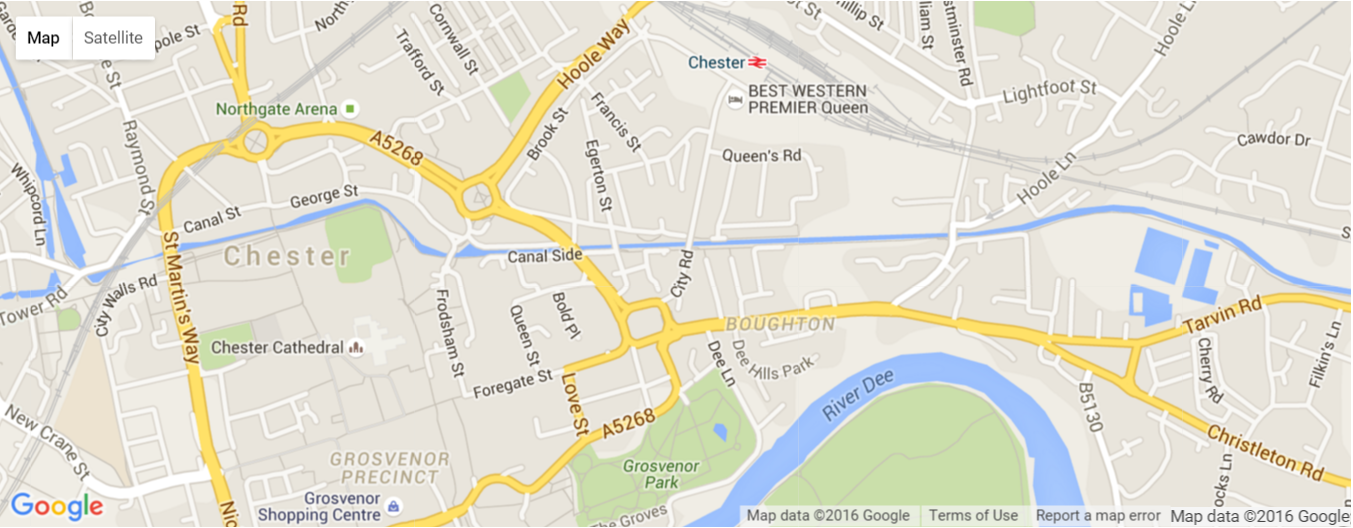
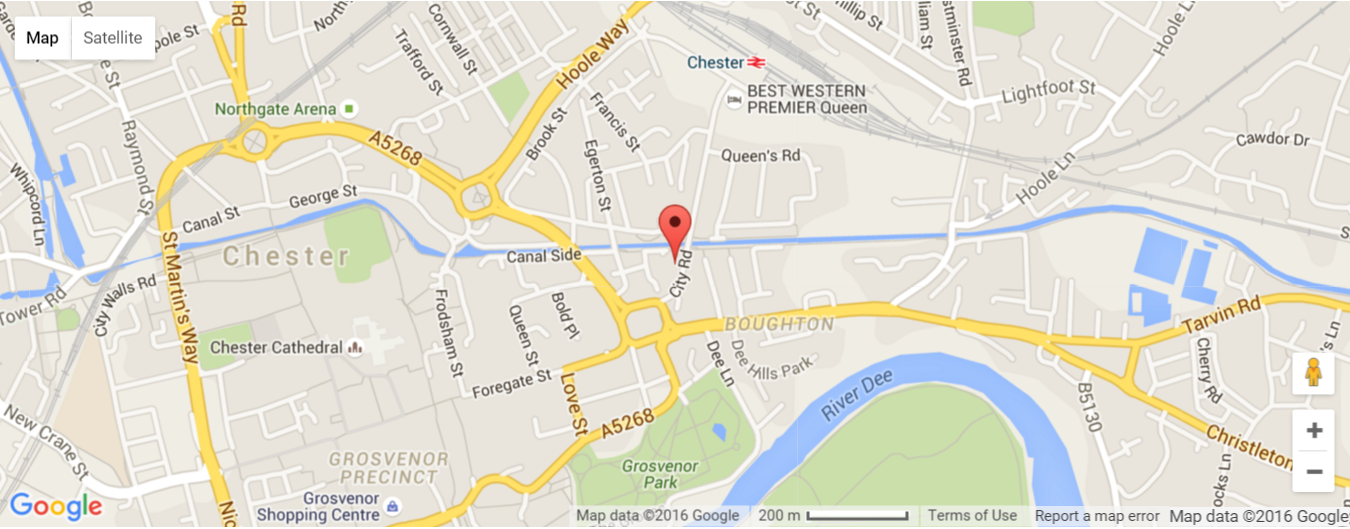
Fixed: JS map now displaying correctly  |  Updated: static map .png

diff --git a/CO5027/Styles/MainStyle.min.css b/CO5027/Styles/MainStyle.min.css
@@ -1,1 +1,1 @@
-@import url(https://fonts.googleapis.com/css?family=Roboto);*{margin:0;padding:0;}body{font-family:'Roboto',Helvetica,Airel,sans-serif;}a{color:#08f;text-decoration:none;}a:hover{text-decoration:underline;}a.current{background-color:#333;}p{margin-bottom:10px;padding-left:10px;}h1{margin-top:20px;margin-bottom:5px;padding-left:15px;}h2{margin-top:12px;margin-bottom:10px;padding-left:15px;}h3{margin-top:8px;margin-bottom:10px;padding-left:5px;}img{max-width:100%;height:auto;}textarea,input{font-family:'Roboto',Helvetica,Airel,sans-serif;transition:background-color linear .15s;padding:10px;display:block;width:100%;font-size:1.05em;}textarea:focus,input:focus{background-color:#fafafa;}textarea{height:250px;}header{background-color:#222;color:#fff;font-family:'Roboto',Helvetica,Airel,sans-serif;}header a{color:#fff;text-decoration:none;}header a img{vertical-align:middle;padding:10px;}header a h1{vertical-align:middle;color:#fff;display:inline;padding-top:15px;padding-left:0;}header nav.main ul{display:inline-block;width:100%;}header nav.main ul li{list-style:none;}header nav.main ul li a{display:block;padding:10px 15px;}header nav.main ul li a:hover{text-decoration:none;background-color:#333;}.photos{display:-webkit-box;display:-moz-box;display:-ms-flexbox;display:flex;justify-content:center;flex-direction:row;flex-wrap:wrap;max-width:100%;}.photos .item{margin:5px;flex-grow:1;flex-basis:300px;}.photos .item figure{display:-webkit-box;display:-moz-box;display:-ms-flexbox;display:flex;display:block;position:relative;overflow:hidden;}.photos .item figure img{display:block;width:100%;height:auto;}.photos .item figure figcaption{transition:opacity ease-out .12s;position:absolute;width:100%;background-color:rgba(0,0,0,.75);background:-webkit-linear-gradient(rgba(0,0,0,0),rgba(0,0,0,.75));background:-o-linear-gradient(rgba(0,0,0,0),rgba(0,0,0,.75));background:-moz-linear-gradient(rgba(0,0,0,0),rgba(0,0,0,.75));background:linear-gradient(rgba(0,0,0,0),rgba(0,0,0,.75));color:#fff;padding:10px 20px;opacity:0;bottom:0;}.photos .item figure figcaption span{padding-right:35px;float:right;}.photos .item figure:hover figcaption{opacity:1;left:0;}section>div{margin:0 20px 30px 20px;}.page{margin-left:auto;margin-right:auto;max-width:900px;padding:0 20px 30px 20px;}.page>div{margin:0;}.email div{margin:15px 5px;}.email div span{color:#f00;}.columns{width:100%;display:flex;flex-direction:column;justify-content:space-between;flex-wrap:wrap;}.columns .map{flex-grow:1;}.columns .map img,.columns .map div{display:block;max-width:100%;}.columns .map #map{height:350px;width:900px;}.contact-details p span{margin-top:5px;padding:15px;display:block;background:#f5f5f5;font-size:1.05em;line-height:1.4;border-left:5px solid #626262;}footer{background-color:#222;color:#fff;font-family:'Roboto',Helvetica,Airel,sans-serif;width:100%;}footer a{color:#fff;text-decoration:none;}footer .copyright{text-align:center;padding:15px;}footer nav.validation{text-align:center;padding:15px;background-color:#2f2f2f;}footer nav.validation h3{margin-top:5px;margin-bottom:5px;font-size:90%;}footer nav.validation li{list-style:none;display:inline-block;}footer nav.validation li a{display:block;padding:8px 14px;border-radius:3px;}footer nav.validation li a:hover{text-decoration:none;background-color:#3c3c3c;}@media(max-width:320px){header nav.main ul li:first-of-type a{margin-top:10px;}header nav.main ul li:last-of-type a{margin-bottom:10px;}}@media(min-width:320px){header nav.main ul{text-align:center;}header nav.main ul li{display:inline-block;}header nav.main ul li a{display:block;padding:12px 20px;}textarea,input{min-width:300px;}}@media(min-width:500px){footer{display:-webkit-box;display:-moz-box;display:-ms-flexbox;display:flex;justify-content:space-between;}footer .copyright{padding:12px 20px;}footer nav.validation{padding:5px 20px;float:right;}footer nav.validation h3,footer nav.validation ul{display:inline-block;}textarea,input{min-width:400px;}}@media(min-width:710px){header nav.main{display:inline-block;}header nav.main ul{text-align:right;}}@media(min-width:860px){.columns.two{flex-direction:row;flex-grow:1;flex-basis:600px;align-items:stretch;}}
+@import url(https://fonts.googleapis.com/css?family=Roboto);*{margin:0;padding:0;}body{font-family:'Roboto',Helvetica,Arial,sans-serif;}a{color:#08f;text-decoration:none;}a:hover{text-decoration:underline;}a.current{background-color:#333;}p{margin-bottom:10px;padding-left:10px;}h1{margin-top:20px;margin-bottom:5px;padding-left:15px;}h2{margin-top:12px;margin-bottom:10px;padding-left:15px;}h3{margin-top:8px;margin-bottom:10px;padding-left:5px;}img{max-width:100%;height:auto;}textarea,input{font-family:'Roboto',Helvetica,Arial,sans-serif;transition:background-color linear .15s;padding:10px;display:block;width:100%;font-size:1.05em;}textarea:focus,input:focus{background-color:#fafafa;}textarea{height:250px;}header{background-color:#222;color:#fff;font-family:'Roboto',Helvetica,Arial,sans-serif;}header a{color:#fff;text-decoration:none;}header a img{vertical-align:middle;padding:10px;}header a h1{vertical-align:middle;color:#fff;display:inline;padding-top:15px;padding-left:0;}header nav.main ul{display:inline-block;width:100%;}header nav.main ul li{list-style:none;}header nav.main ul li a{display:block;padding:10px 15px;}header nav.main ul li a:hover{text-decoration:none;background-color:#333;}.photos{display:-webkit-box;display:-moz-box;display:-ms-flexbox;display:flex;justify-content:center;flex-direction:row;flex-wrap:wrap;max-width:100%;}.photos .item{margin:5px;flex-grow:1;flex-basis:300px;}.photos .item figure{display:-webkit-box;display:-moz-box;display:-ms-flexbox;display:flex;display:block;position:relative;overflow:hidden;}.photos .item figure img{display:block;width:100%;height:auto;}.photos .item figure figcaption{transition:opacity ease-out .12s;position:absolute;width:100%;background-color:rgba(0,0,0,.75);background:-webkit-linear-gradient(rgba(0,0,0,0),rgba(0,0,0,.75));background:-o-linear-gradient(rgba(0,0,0,0),rgba(0,0,0,.75));background:-moz-linear-gradient(rgba(0,0,0,0),rgba(0,0,0,.75));background:linear-gradient(rgba(0,0,0,0),rgba(0,0,0,.75));color:#fff;padding:10px 20px;opacity:0;bottom:0;}.photos .item figure figcaption span{padding-right:35px;float:right;}.photos .item figure:hover figcaption{opacity:1;left:0;}section>div{margin:0 20px 30px 20px;}.page{margin-left:auto;margin-right:auto;max-width:900px;padding:0 20px 30px 20px;}.page>div{margin:0;}.email div{margin:15px 5px;}.email div span{color:#f00;}.columns{width:100%;display:flex;flex-direction:column;justify-content:space-between;flex-wrap:wrap;}.columns .map{flex-grow:1;}.columns .map img,.columns .map div{display:block;}.columns .map #map{height:350px;width:900px;}.contact-details p span{margin-top:5px;padding:15px;display:block;background:#f5f5f5;font-size:1.05em;line-height:1.4;border-left:5px solid #626262;}footer{background-color:#222;color:#fff;font-family:'Roboto',Helvetica,Arial,sans-serif;width:100%;}footer a{color:#fff;text-decoration:none;}footer .copyright{text-align:center;padding:15px;}footer nav.validation{text-align:center;padding:15px;background-color:#2f2f2f;}footer nav.validation h3{margin-top:5px;margin-bottom:5px;font-size:90%;}footer nav.validation li{list-style:none;display:inline-block;}footer nav.validation li a{display:block;padding:8px 14px;border-radius:3px;}footer nav.validation li a:hover{text-decoration:none;background-color:#3c3c3c;}@media(max-width:320px){header nav.main ul li:first-of-type a{margin-top:10px;}header nav.main ul li:last-of-type a{margin-bottom:10px;}}@media(min-width:320px){header nav.main ul{text-align:center;}header nav.main ul li{display:inline-block;}header nav.main ul li a{display:block;padding:12px 20px;}textarea,input{min-width:300px;}}@media(min-width:500px){footer{display:-webkit-box;display:-moz-box;display:-ms-flexbox;display:flex;justify-content:space-between;}footer .copyright{padding:12px 20px;}footer nav.validation{padding:5px 20px;float:right;}footer nav.validation h3,footer nav.validation ul{display:inline-block;}textarea,input{min-width:400px;}}@media(min-width:710px){header nav.main{display:inline-block;}header nav.main ul{text-align:right;}}@media(min-width:860px){.columns.two{flex-direction:row;flex-grow:1;flex-basis:600px;align-items:stretch;}}

diff --git a/CO5027/Styles/MainStyle.css b/CO5027/Styles/MainStyle.css
@@ -4,7 +4,7 @@
   padding: 0;
 }
 body {
-  font-family: 'Roboto', Helvetica, Airel, sans-serif;
+  font-family: 'Roboto', Helvetica, Arial, sans-serif;
 }
 a {
   color: #08f;
@@ -41,7 +41,7 @@ img {
 }
 textarea,
 input {
-  font-family: 'Roboto', Helvetica, Airel, sans-serif;
+  font-family: 'Roboto', Helvetica, Arial, sans-serif;
   transition: background-color linear 0.15s;
   padding: 10px;
   display: block;
@@ -58,7 +58,7 @@ textarea {
 header {
   background-color: #222;
   color: #fff;
-  font-family: 'Roboto', Helvetica, Airel, sans-serif;
+  font-family: 'Roboto', Helvetica, Arial, sans-serif;
 }
 header a {
   color: #fff;
@@ -175,7 +175,6 @@ section > div {
 .columns .map img,
 .columns .map div {
   display: block;
-  max-width: 100%;
 }
 .columns .map #map {
   height: 350px;
@@ -193,7 +192,7 @@ section > div {
 footer {
   background-color: #222;
   color: #fff;
-  font-family: 'Roboto', Helvetica, Airel, sans-serif;
+  font-family: 'Roboto', Helvetica, Arial, sans-serif;
   width: 100%;
 }
 footer a {

diff --git a/CO5027/Scripts/google-maps.js b/CO5027/Scripts/google-maps.js
@@ -1,22 +1,20 @@
 var map;
+var marker;
 function initMap() {
-
-    // hide map img
-    var hideMapImg = document.getElementById('hide-map');
-    hideMapImg.style.display = 'none';
-
-    // replace with Google Maps from JS API
+    // replace img with Google Maps from JS API
     var location = { lat: 53.1932506, lng: -2.8819181 };
 
     map = new google.maps.Map(document.getElementById('map'), {
         center: location,
-        zoom: 15
+        zoom: 15,
+        scaleControl: true
     });
 
-    var marker = new google.maps.Marker({
-        map: map,
+    marker = new google.maps.Marker({
         position: location,
         title: 'StunningSnaps Studios',
-        animation: google.maps.Animation.DROP,
+        animation: google.maps.Animation.DROP
     });
+
+    marker.setMap(map);
 }

diff --git a/CO5027/Styles/MainStyle.less b/CO5027/Styles/MainStyle.less
@@ -6,11 +6,11 @@
 
 @headerBackgroundColor: #222;
 @headerFontColor: #fff;
-@headerFontFamily: 'Roboto', Helvetica, Airel, sans-serif;
+@headerFontFamily: 'Roboto', Helvetica, Arial, sans-serif;
 @headerLinkColor: @headerFontColor;
 
 @linkColor: #08f;
-@fontFamily: 'Roboto', Helvetica, Airel, sans-serif;
+@fontFamily: 'Roboto', Helvetica, Arial, sans-serif;
 
 @footerBackgroundColor: @headerBackgroundColor;
 @footerFontColor: @headerFontColor;
@@ -254,7 +254,6 @@ section > div {
 
         img, div {
             display: block;
-            max-width: 100%;
         }
         #map {
             height:350px;
